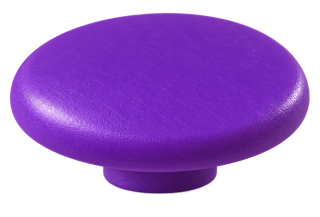
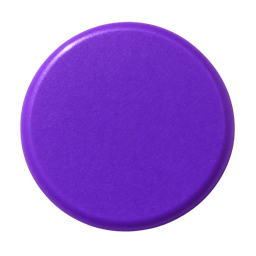
polish(widgets): flatten quote pushpin cap

Changed region(s): [[0.0312, 0.0553, 0.9688, 0.9124]]

diff --git a/src/index.css b/src/index.css
@@ -17507,19 +17507,19 @@
 
 /* ================================================================
    QUOTE SCRAP — GENERATED PUSH PIN
-   Low cap + tiny collar: the hidden needle reads as pressed into the paper.
+   Matte front cap only; a one-pixel contact shadow seats it into the paper.
    ================================================================ */
 
 .quote-pin {
   top: 4px;
-  width: 31px;
-  height: 22px;
+  width: 21px;
+  height: 21px;
   border: 0;
   border-radius: 0;
   background: transparent url("/assets/ui/quote-pushpin.png") center / contain
     no-repeat;
   box-shadow: none;
-  filter: none;
+  filter: drop-shadow(0 1px 0 rgba(17, 17, 20, 0.26));
   rotate: 0deg;
 }
 

diff --git a/docs/todos.md b/docs/todos.md
@@ -7,9 +7,10 @@ Backward-looking history lives in `hackathon.md`.
 
 - The “same moon, both windows” quote scrap now uses an image-generated,
   transparent purple pushpin cutout (`public/assets/ui/quote-pushpin.png`) with
-  a low three-quarter cap and only a tiny collar visible; its needle is hidden
-  in the paper and the detached CSS shadow is gone. Verified on
-  `#/space/couple`; reference screenshot: `.context/quote-pin-embedded-v2.png`.
+  a smaller matte head viewed almost straight-on; the collar and needle are
+  fully hidden, and one hard 1px contact shadow seats the cap into the paper.
+  Verified on `#/space/couple`; reference screenshot:
+  `.context/quote-pin-final.png`.
 - Full app deployed live: https://necessary-cobra-892.convex.site (Convex
   static hosting + prod backend, all spaces seeded).
 - Sticker pack expanded to twelve crew-specific die-cuts, adding photoreal Rio
